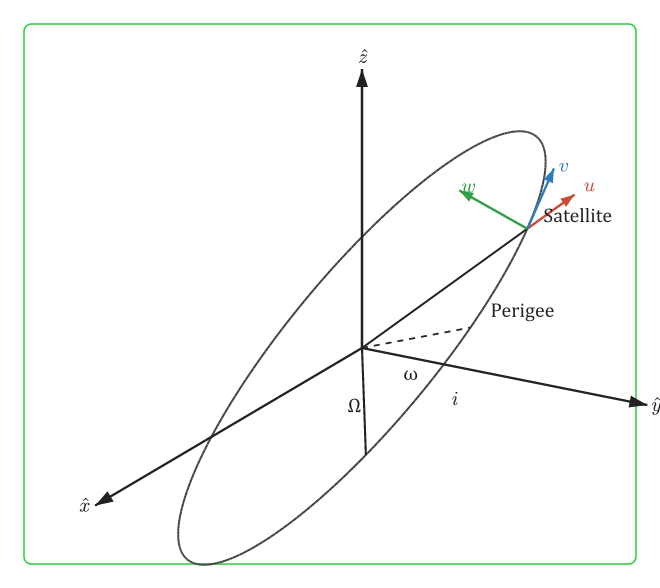
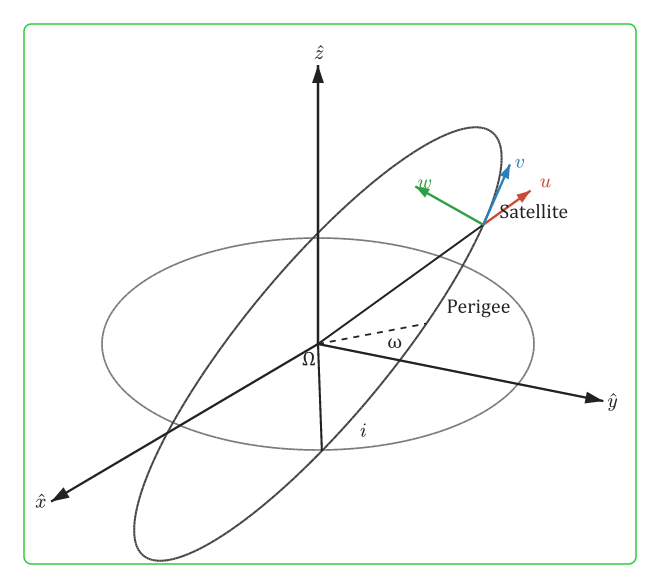
nearlly perfect frames rendering

diff --git a/README.md b/README.md
@@ -107,6 +107,8 @@ _N = sqrt(MU_EARTH / (a ** 3)) * 24 * 60 * 60 / (2 * pi)  # revs per day
 
 The UVW frame is a local orbital coordinate system. The u-axis points along the satellite's position vector (radial direction), the w-axis points along the orbital angular momentum vector (orbit normal), and the v-axis completes the right-handed frame. For a circular orbit, the v-axis aligns with the velocity direction; in general it is the in-track direction and is not exactly the same as the velocity vector when the orbit has a radial velocity component.
 
+![uvw-orbit](imgs/frames.png)
+
 The following give a definition of the UVW frame from Keplerian elements, the transformation start from Keplerian elements to ECI frame, and then from ECI frame to UVW frame:
 
 ![uvw](imgs/uvw.png)
